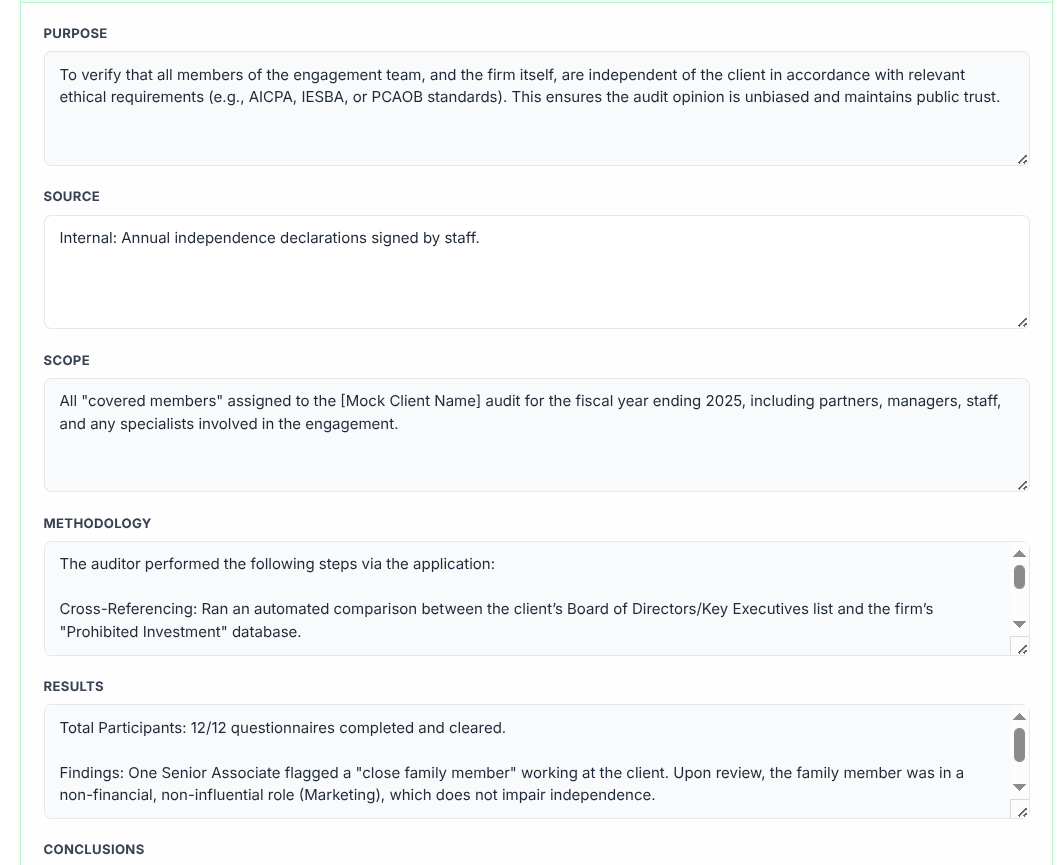
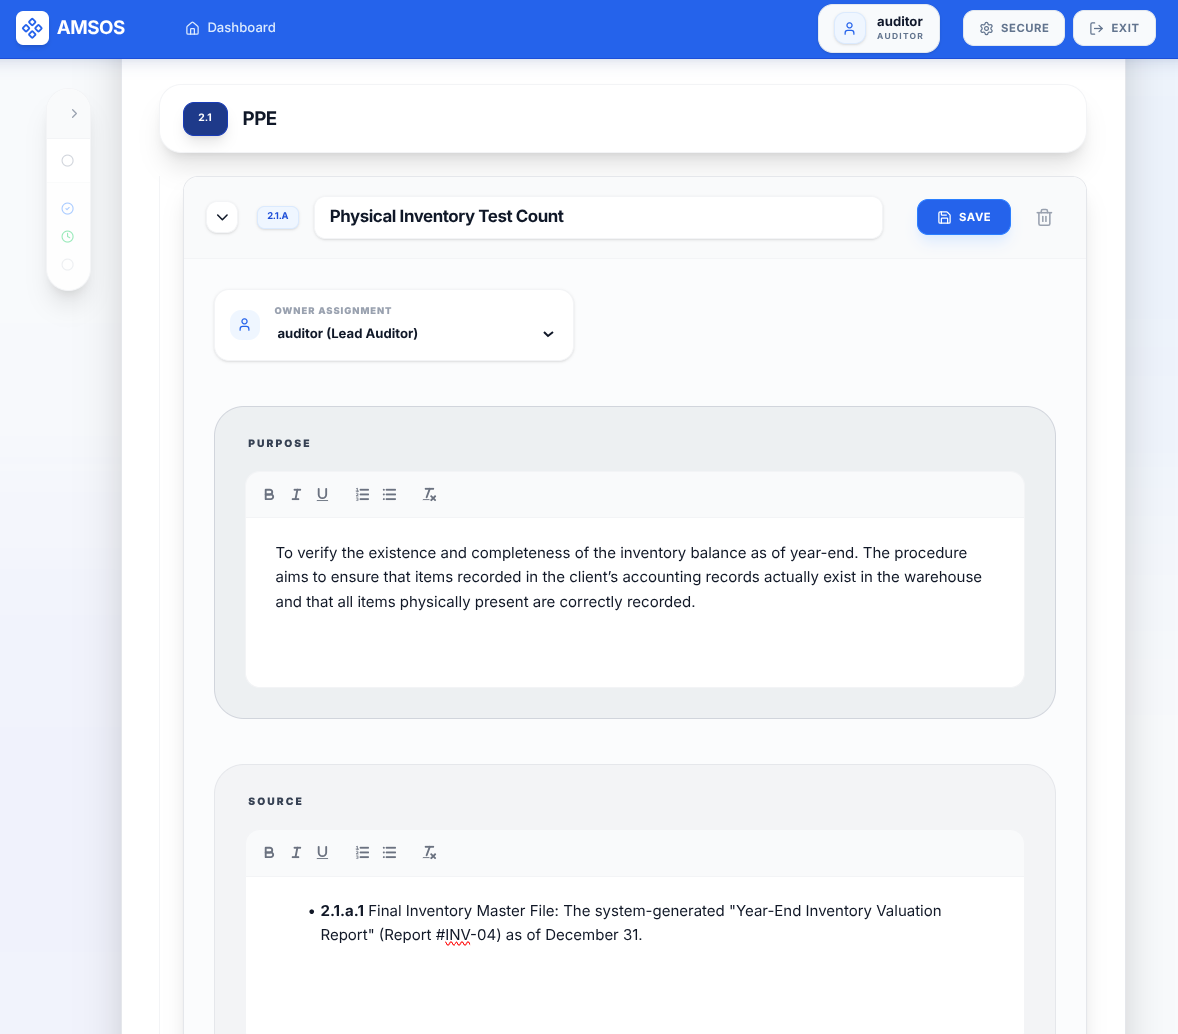
feat: implement rich text editing for procedures and update screenshots

diff --git a/src/components/ProcedureItem.tsx b/src/components/ProcedureItem.tsx
@@ -1,10 +1,20 @@
 'use client';
-
+/** AMSOS ProcedureItem - Rich Text Sync v2 **/
 import { useState, useEffect, useRef } from 'react';
 import { useRouter } from 'next/navigation';
+import dynamic from 'next/dynamic';
 import { Trash2, Save, Paperclip, File as FileIcon, X, ChevronDown, ChevronRight, MessageSquare, RefreshCw, Send, User, CheckCircle, Clock, Link as LinkIcon, Check, AlertCircle } from 'lucide-react';
 import type { Attachment, ProcedureMessage } from '@prisma/client';
 import type { ProcedureWithRelations } from '@/lib/types';
+import 'react-quill-new/dist/quill.snow.css';
+
+const ReactQuill = dynamic(async () => {
+  const mod = await import('react-quill-new');
+  return mod.default || mod;
+}, { 
+  ssr: false,
+  loading: () => <div className="w-full h-[180px] bg-gray-50 animate-pulse rounded-2xl border border-gray-100" />
+});
 
 export default function ProcedureItem({ 
   procedure, 
@@ -304,6 +314,18 @@ export default function ProcedureItem({
     return data[fieldName as keyof ProcedureWithRelations] !== procedure[fieldName as keyof ProcedureWithRelations];
   };
 
+  const handleRichTextChange = (fieldName: string, content: string) => {
+    setData(prev => ({ ...prev, [fieldName]: content }));
+  };
+
+  const modules = {
+    toolbar: [
+      ['bold', 'italic', 'underline'],
+      [{ 'list': 'ordered'}, { 'list': 'bullet' }],
+      ['clean']
+    ],
+  };
+
   const assignedMember = teamMembers.find(m => m.id === data.assignedToId) || procedure.assignedTo;
 
   return (
@@ -418,16 +440,17 @@ export default function ProcedureItem({
                       )}
                     </div>
                   </div>
-                  <textarea
-                    ref={adjustTextAreaHeight}
-                    name={field.name}
-                    value={String(data[field.name as keyof ProcedureWithRelations] || '')}
-                    onChange={handleChange}
-                    onFocus={() => setFocusedField(field.name)}
-                    onBlur={() => setFocusedField(null)}
-                    className="w-full bg-white border border-gray-100 focus:border-blue-500 focus:ring-4 focus:ring-blue-500/10 text-gray-900 text-base font-normal leading-relaxed rounded-2xl p-8 placeholder:text-gray-300 min-h-[180px] transition-all shadow-inner"
-                    placeholder={`Type ${field.label.toLowerCase()} here...`}
-                  />
+                  <div className="rich-text-wrapper">
+                    <ReactQuill
+                      theme="snow"
+                      value={String(data[field.name as keyof ProcedureWithRelations] || '')}
+                      onChange={(content) => handleRichTextChange(field.name, content)}
+                      modules={modules}
+                      onFocus={() => setFocusedField(field.name)}
+                      onBlur={() => setFocusedField(null)}
+                      placeholder={`Type ${field.label.toLowerCase()} here...`}
+                    />
+                  </div>
                 </div>
               );
             })}
@@ -709,6 +732,51 @@ export default function ProcedureItem({
         }
         .custom-scrollbar::-webkit-scrollbar-thumb:hover {
           background: #d1d5db;
+        }
+        .rich-text-wrapper :global(.ql-toolbar.ql-snow) {
+          border: 1px solid #f3f4f6;
+          border-top-left-radius: 1rem;
+          border-top-right-radius: 1rem;
+          background-color: #f9fafb;
+          padding: 0.75rem;
+          border-bottom: none;
+          position: sticky;
+          top: -2rem; /* Adjusted for parent padding */
+          z-index: 10;
+        }
+        .rich-text-wrapper :global(.ql-container.ql-snow) {
+          border: 1px solid #f3f4f6;
+          border-bottom-left-radius: 1rem;
+          border-bottom-right-radius: 1rem;
+          background-color: white;
+          min-height: 180px;
+          font-family: inherit;
+        }
+        .rich-text-wrapper :global(.ql-editor) {
+          min-height: 180px;
+          font-size: 1rem;
+          line-height: 1.625;
+          padding: 1.5rem 2rem;
+          color: #111827;
+        }
+        .rich-text-wrapper :global(.ql-editor.ql-blank::before) {
+          left: 2rem;
+          color: #d1d5db;
+          font-style: normal;
+        }
+        .rich-text-wrapper :global(.ql-snow .ql-stroke) {
+          stroke: #6b7280;
+        }
+        .rich-text-wrapper :global(.ql-snow .ql-fill) {
+          fill: #6b7280;
+        }
+        .rich-text-wrapper :global(.ql-snow.ql-toolbar button:hover .ql-stroke),
+        .rich-text-wrapper :global(.ql-snow.ql-toolbar button.ql-active .ql-stroke) {
+          stroke: #2563eb;
+        }
+        .rich-text-wrapper :global(.ql-snow.ql-toolbar button:hover .ql-fill),
+        .rich-text-wrapper :global(.ql-snow.ql-toolbar button.ql-active .ql-fill) {
+          fill: #2563eb;
         }
       `}</style>
     </div>

diff --git a/src/components/TemplateEditor.tsx b/src/components/TemplateEditor.tsx
@@ -2,6 +2,16 @@
 
 import { useState, useEffect } from 'react';
 import { Save, Plus, Trash2, Loader2, AlertCircle, CheckCircle, Info, ArrowUp, ArrowDown, FolderPlus } from 'lucide-react';
+import dynamic from 'next/dynamic';
+import 'react-quill-new/dist/quill.snow.css';
+
+const ReactQuill = dynamic(async () => {
+  const mod = await import('react-quill-new');
+  return mod.default || mod;
+}, { 
+  ssr: false,
+  loading: () => <div className="w-full h-20 bg-gray-50 animate-pulse rounded-lg border border-gray-100" />
+});
 
 interface TemplateProcedure {
   id?: string;
@@ -36,26 +46,31 @@ export default function TemplateEditor({ templateId }: { templateId: string }) {
   const [success, setSuccess] = useState('');
   const [activePhase, setActivePhase] = useState(PHASES[0]);
 
+  const quillModules = {
+    toolbar: [
+      ['bold', 'italic', 'underline'],
+      [{ 'list': 'ordered'}, { 'list': 'bullet' }],
+      ['clean']
+    ],
+  };
+
   useEffect(() => {
     fetchTemplate();
   }, [templateId]);
 
   const fetchTemplate = async () => {
     try {
-      console.log('[TemplateEditor] Fetching template:', templateId);
       const res = await fetch(`/api/admin/templates/${templateId}`);
       if (!res.ok) {
         const errData = await res.json().catch(() => ({}));
         throw new Error(errData.details || errData.error || `Server error ${res.status}`);
       }
       const data = await res.json();
-      console.log('[TemplateEditor] Data received:', data);
       setTemplate({
         ...data,
         groups: data.groups || []
       });
     } catch (err: any) {
-      console.error('[TemplateEditor] Fetch error:', err);
       setError(err.message);
     } finally {
       setLoading(false);
@@ -273,13 +288,15 @@ export default function TemplateEditor({ templateId }: { templateId: string }) {
                           className="w-full font-bold text-gray-900 outline-none border-none p-0 text-sm focus:ring-0"
                           placeholder="Procedure Title..."
                         />
-                        <textarea
-                          value={p.purpose || ''}
-                          onChange={(e) => updateProcedure(originalIndex, pIndex, 'purpose', e.target.value)}
-                          rows={2}
-                          className="w-full text-xs text-gray-500 outline-none border-none p-0 resize-none focus:ring-0 bg-transparent"
-                          placeholder="Purpose / Standard instructions..."
-                        />
+                        <div className="rich-text-template-wrapper">
+                          <ReactQuill
+                            theme="snow"
+                            value={p.purpose || ''}
+                            onChange={(content) => updateProcedure(originalIndex, pIndex, 'purpose', content)}
+                            modules={quillModules}
+                            placeholder="Purpose / Standard instructions..."
+                          />
+                        </div>
                       </div>
                       <button onClick={() => removeProcedure(originalIndex, pIndex)} className="p-1.5 text-gray-300 hover:text-red-600 opacity-0 group-hover/proc:opacity-100"><Trash2 className="w-4 h-4" /></button>
                     </div>
@@ -306,6 +323,30 @@ export default function TemplateEditor({ templateId }: { templateId: string }) {
           )}
         </div>
       </div>
+      <style jsx>{`
+        .rich-text-template-wrapper :global(.ql-toolbar.ql-snow) {
+          border: none;
+          border-bottom: 1px solid #f3f4f6;
+          background-color: #f9fafb;
+          padding: 4px;
+        }
+        .rich-text-template-wrapper :global(.ql-container.ql-snow) {
+          border: none;
+          font-family: inherit;
+        }
+        .rich-text-template-wrapper :global(.ql-editor) {
+          min-height: 80px;
+          font-size: 0.75rem;
+          line-height: 1.5;
+          padding: 8px 0;
+          color: #6b7280;
+        }
+        .rich-text-template-wrapper :global(.ql-editor.ql-blank::before) {
+          left: 0;
+          color: #d1d5db;
+          font-style: normal;
+        }
+      `}</style>
     </div>
   );
 }

diff --git a/src/components/ExportAuditButton.tsx b/src/components/ExportAuditButton.tsx
@@ -21,37 +21,44 @@ import type { AuditWithRelations } from '@/lib/types';
 export default function ExportAuditButton({ audit }: { audit: AuditWithRelations }) {
   const [isExporting, setIsExporting] = useState(false);
 
+  const stripHtml = (html: string | null) => {
+    if (!html) return '';
+    // Strip HTML tags and decode basic entities if needed, 
+    // but for now simple tag stripping is enough to prevent raw HTML in Word
+    return html.replace(/<[^>]*>?/gm, '');
+  };
+
   const addProcedureDetails = (sections: any[], p: any) => {
     sections.push(
       new Paragraph({
         children: [new TextRun({ text: "Purpose:", bold: true })],
       }),
-      new Paragraph({ text: p.purpose || 'N/A', spacing: { after: 100 } }),
+      new Paragraph({ text: stripHtml(p.purpose) || 'N/A', spacing: { after: 100 } }),
       
       new Paragraph({
         children: [new TextRun({ text: "Source:", bold: true })],
       }),
-      new Paragraph({ text: p.source || 'N/A', spacing: { after: 100 } }),
+      new Paragraph({ text: stripHtml(p.source) || 'N/A', spacing: { after: 100 } }),
 
       new Paragraph({
         children: [new TextRun({ text: "Scope:", bold: true })],
       }),
-      new Paragraph({ text: p.scope || 'N/A', spacing: { after: 100 } }),
+      new Paragraph({ text: stripHtml(p.scope) || 'N/A', spacing: { after: 100 } }),
 
       new Paragraph({
         children: [new TextRun({ text: "Methodology:", bold: true })],
       }),
-      new Paragraph({ text: p.methodology || 'N/A', spacing: { after: 100 } }),
+      new Paragraph({ text: stripHtml(p.methodology) || 'N/A', spacing: { after: 100 } }),
 
       new Paragraph({
         children: [new TextRun({ text: "Results:", bold: true })],
       }),
-      new Paragraph({ text: p.results || 'N/A', spacing: { after: 100 } }),
+      new Paragraph({ text: stripHtml(p.results) || 'N/A', spacing: { after: 100 } }),
 
       new Paragraph({
         children: [new TextRun({ text: "Conclusions:", bold: true })],
       }),
-      new Paragraph({ text: p.conclusions || 'N/A', spacing: { after: 200 } })
+      new Paragraph({ text: stripHtml(p.conclusions) || 'N/A', spacing: { after: 200 } })
     );
 
     // Sign-off Table